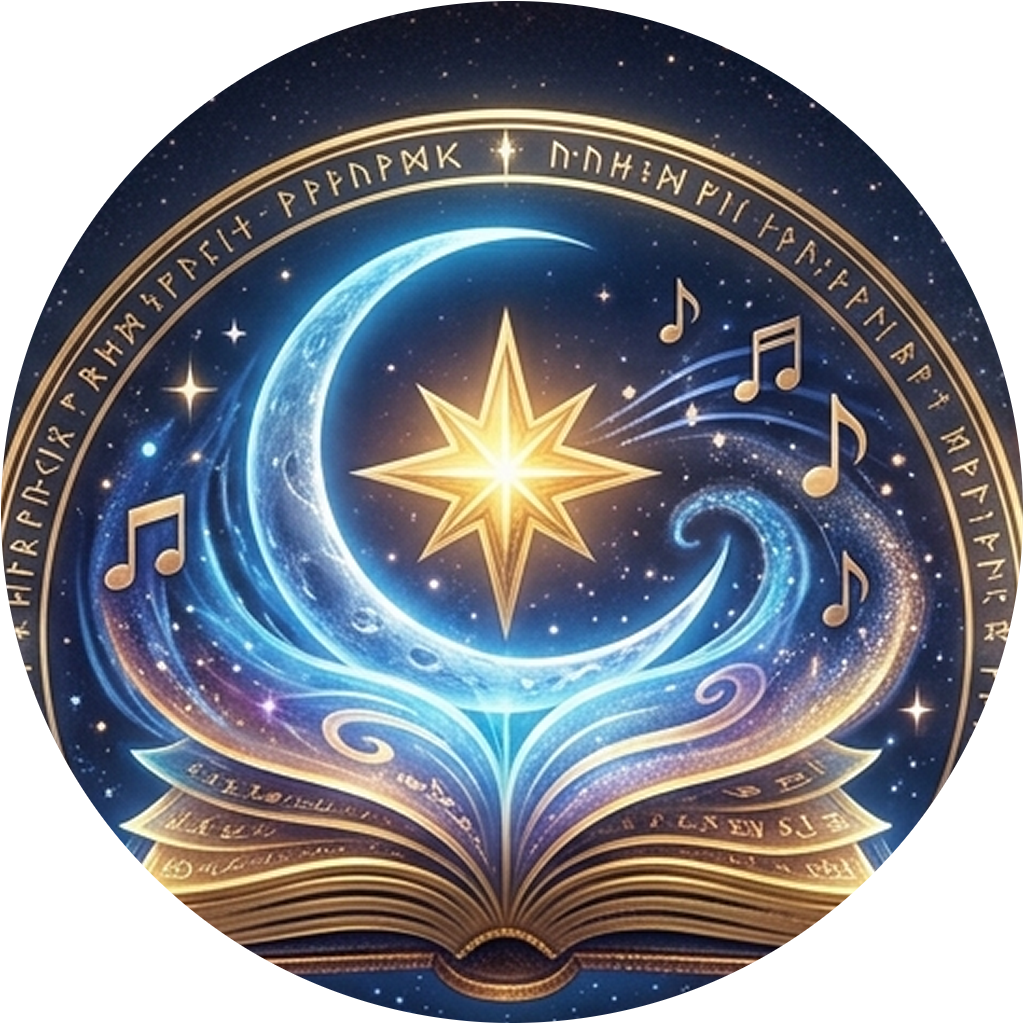
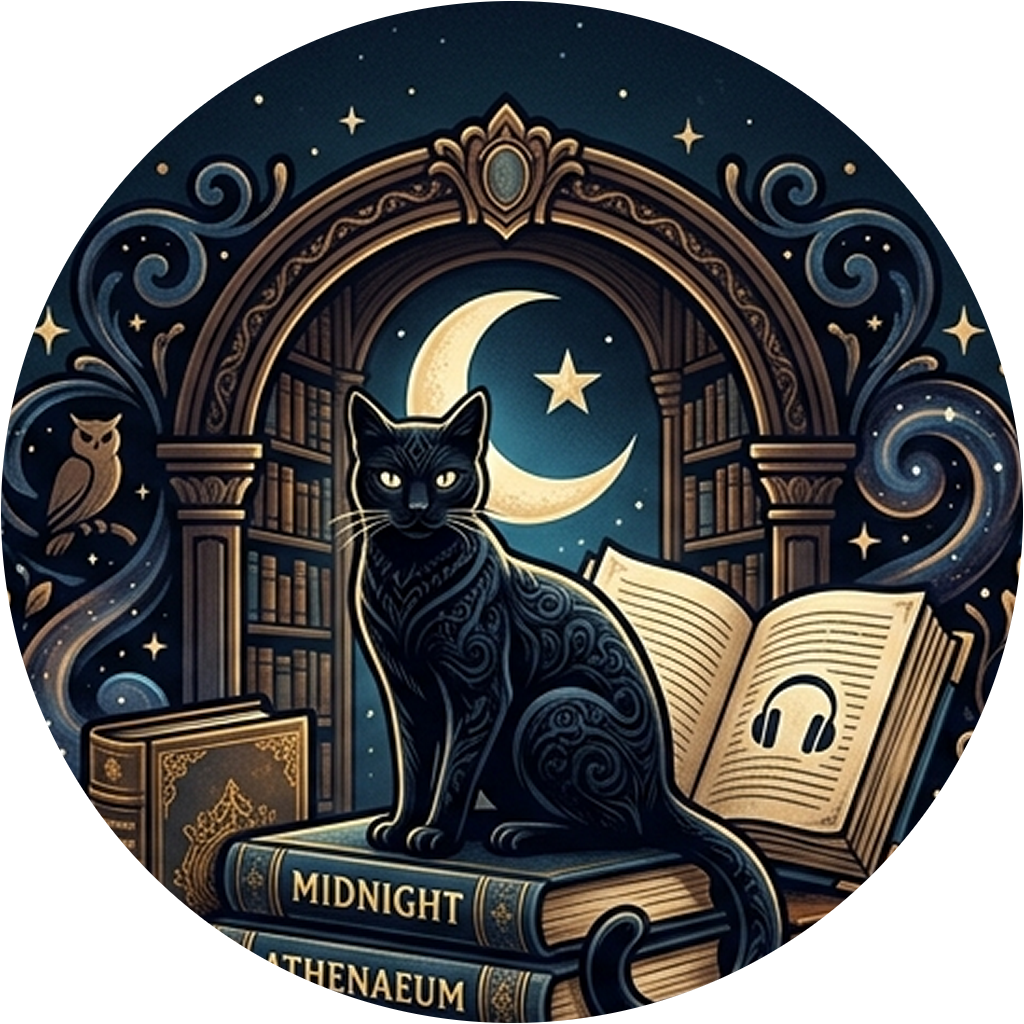
Add real Midnight Athenaeum branding art
Replaces the placeholder Tomelight banner/icon from the rename commit with
real art (black cat, arched library window, crescent moon) generated for the
new name. Icon crop uses the same script/logic as before -- just the emblem,
no wordmark, verified legible down to 32px (16px is inherently abstract for
any detailed icon at that size, same as the original).

diff --git a/CHANGELOG.md b/CHANGELOG.md
@@ -8,6 +8,13 @@ what the in-app "Check for Updates" screen shows) — see
 
 ## [Unreleased]
 
+## [0.4.1] - 2026-07-22
+### Changed
+- Real branding art for Midnight Athenaeum (previous release still carried
+  the old Tomelight banner/icon, since the new art wasn't ready yet). App
+  icon is cropped from the new banner the same way as before — the emblem
+  only, no wordmark, so it stays legible down to taskbar sizes.
+
 ## [0.4.0] - 2026-07-22
 ### Changed
 - Renamed from **Tomelight** to **Midnight Athenaeum**. The Tomelight name